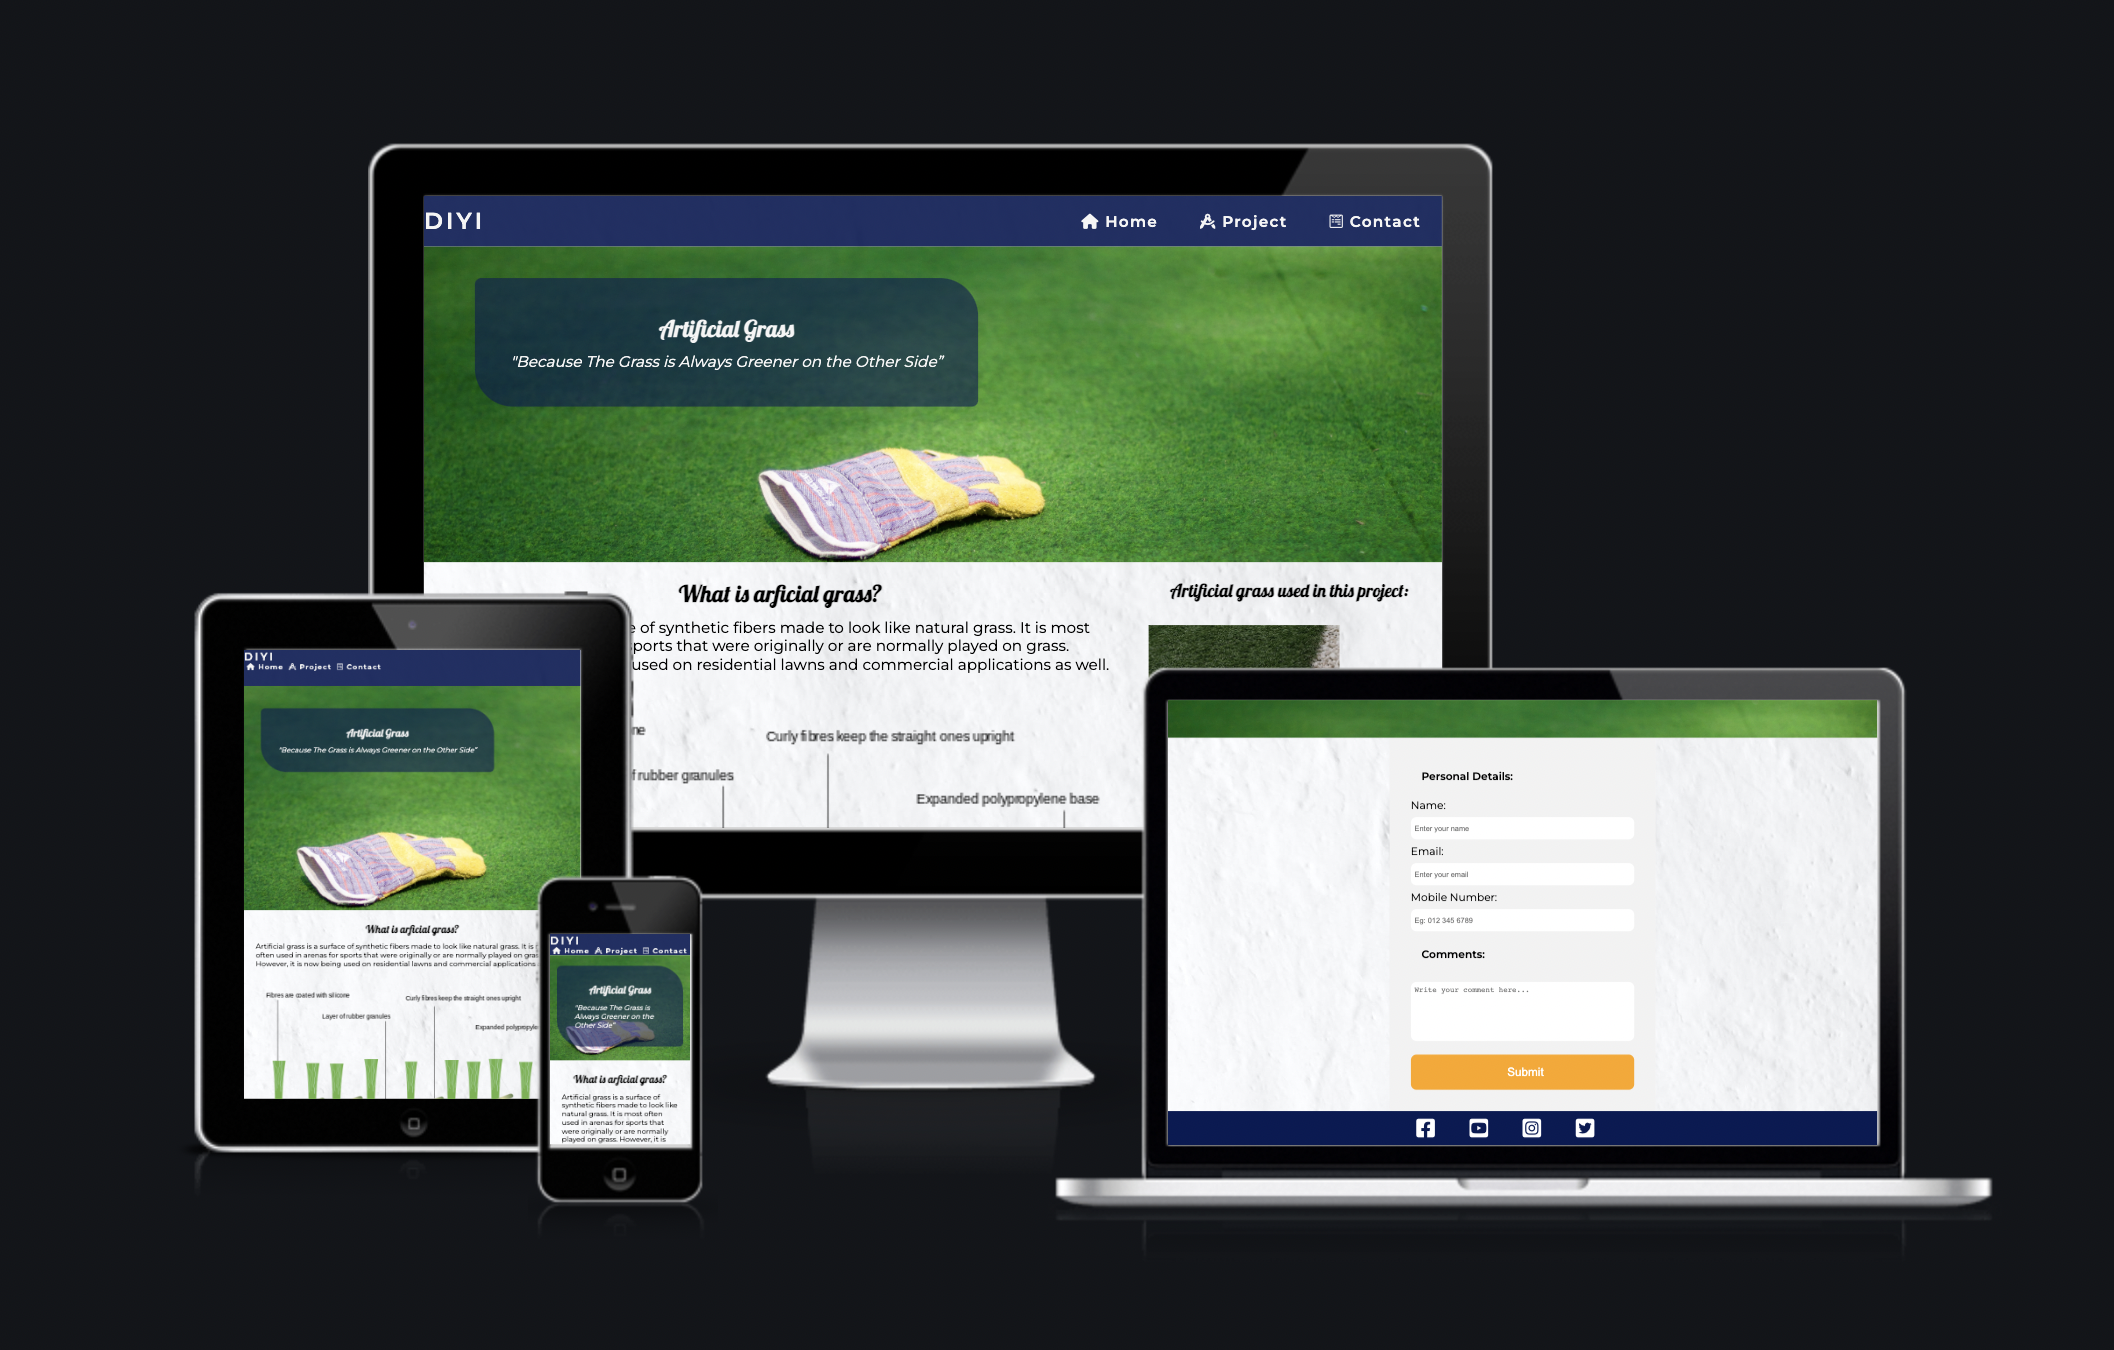
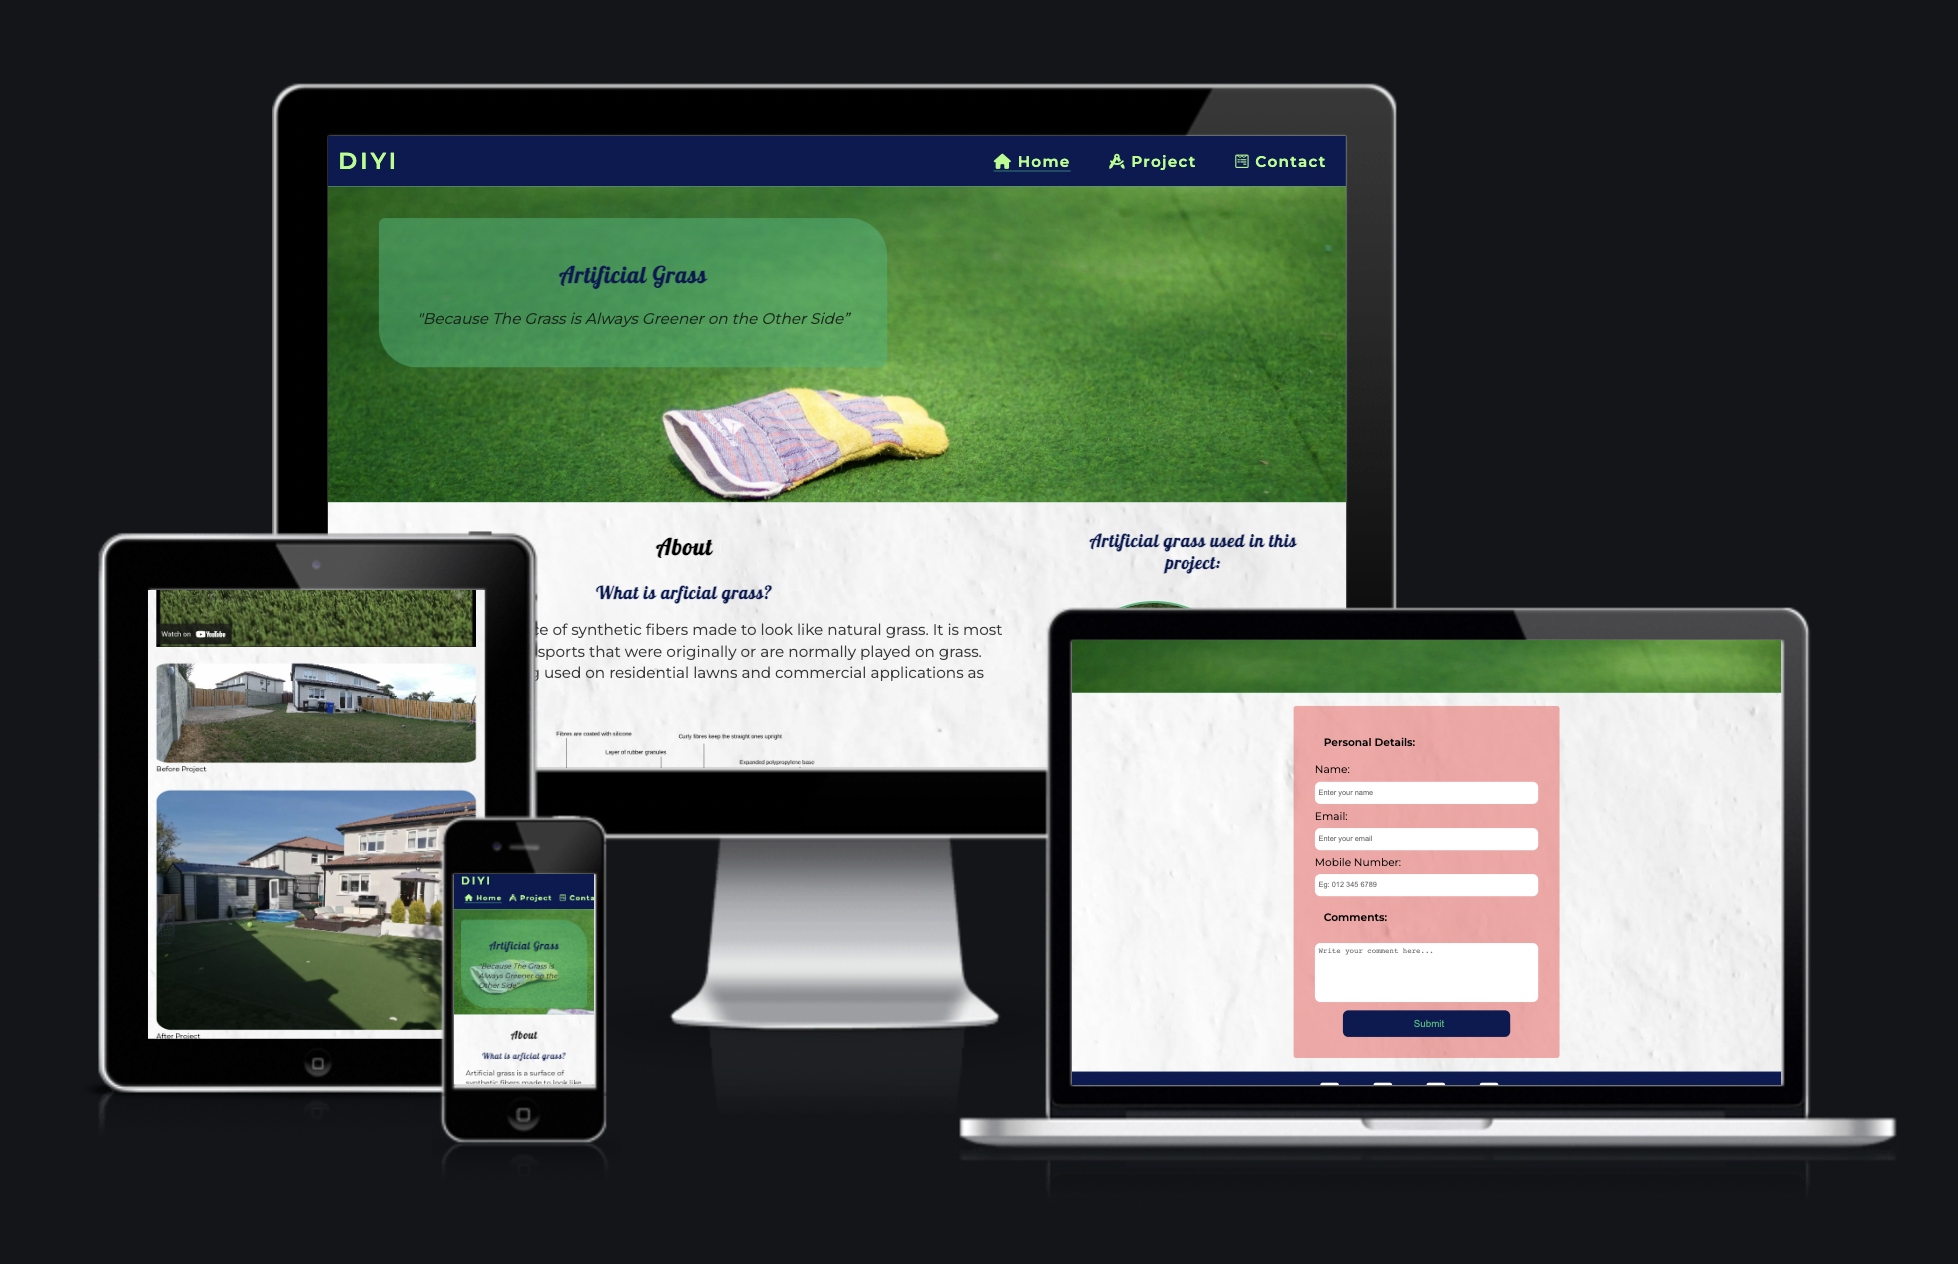
Add colour scheme image to readme and add back to the top  button to  home page

diff --git a/assets/css/styles.css b/assets/css/styles.css
@@ -92,10 +92,10 @@ nav {
 }
 
 .nav-links a:hover {
- color: var(--darkgreen);
+ color: var(--orange);
 }
 .current-page {
-border-bottom: 2px solid var(--darkgreen);
+border-bottom: 2px solid var(--orange);
 }
 
 /****** Header Section  ******/
@@ -137,6 +137,7 @@ main.content {
 
 aside.content {
  padding: 1.2em;
+ position: relative;
 }
 aside.content img {
  border-radius: 50%;
@@ -146,6 +147,26 @@ aside.content figcaption {
    text-align: center;
 
 }
+
+.down-top-btn {
+margin-right: 1rem;
+margin-bottom: 1rem;
+width: 8rem;
+height: 3rem;
+background-color: var(--orange);
+color: var(--lightgreen);
+position: absolute;
+bottom: 0;
+right: 0;
+text-decoration: none;
+text-transform: uppercase;
+font-size: large;
+font-weight: bold;
+border-radius: 10px;
+line-height: 2.5;
+}
+    
+
 
 div img {
  width: 100%;

diff --git a/index.html b/index.html
@@ -205,6 +205,8 @@
       <li>Aqua bond glue cartridge</li>
      </ul>
     </div>
+    <button><a href="index.html" aria-label="Go back to top of the page" class="down-top-btn">Back to top</a></button>
+
    </aside>
   </div>
   <footer>

diff --git a/README.md b/README.md
@@ -52,7 +52,7 @@ The website uses a two column responsive layout that will merge into one for sma
 ### Home page
 
 The user will be greated with a hero image of green surface and a pair of builder gloves making a statement of what the website is about .Each page contains a conventional logo positioned on the top left and a navigation bar on the right side, which will me placed under the logo for mobile small screen sizes. All pages will be responsive and layout will adapt to different screen sizes.In the botton of the page the user will find the footer that  contains  social media links.
-![Home page nav and hero](/readme-images/homepage-header-nav.png)
+![Home page nav and hero](readme-images/nav-header.png)
 
 ### About section
 
@@ -62,7 +62,6 @@ Under the hero image it is the about section where the user will see and introdu
 
 This is the main section of the website with key information. The project page will feature a explanatory video showcasing the how-to installation of artificial grass. This is one of the resources i used myself when i did the project and the user will find it very beneficial, followed by images of the before and after the project.
 Below  that is a detailed description and images of the 8 more important steps to install artificial grass in a proffessional maner. Images where taken during the process of doing the project, except three of them pictures that are screenshot of the video because i found it would graphically explain more clear the step described.
-![project images and video ](/readme-images/video-before-after.png)
 
 ### Contact page
 
